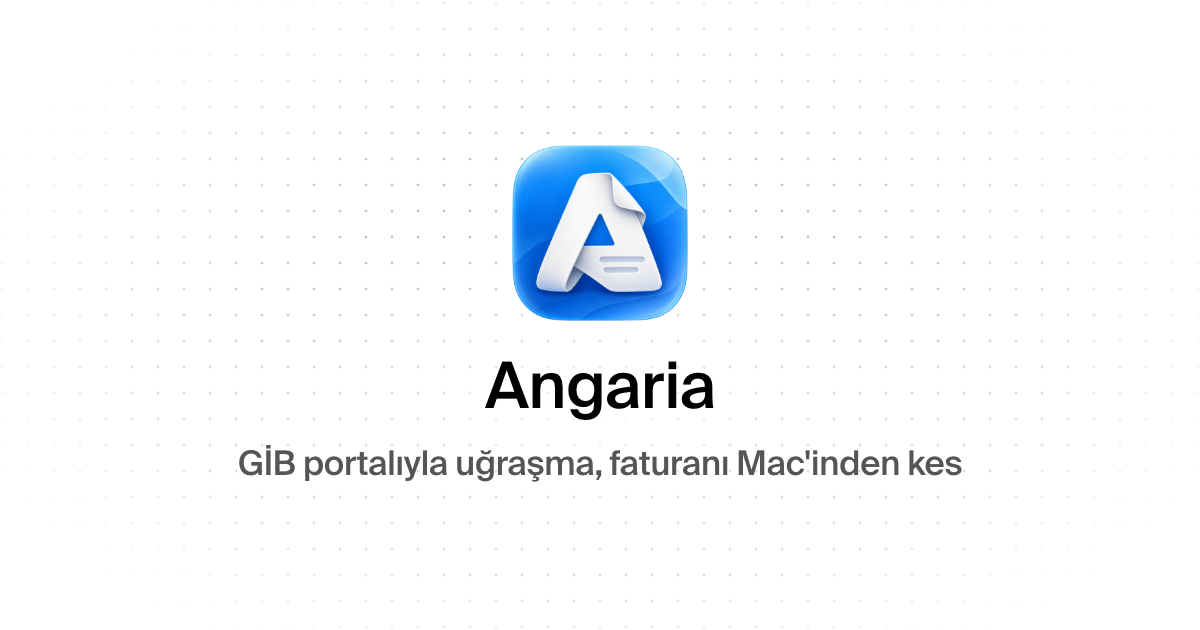
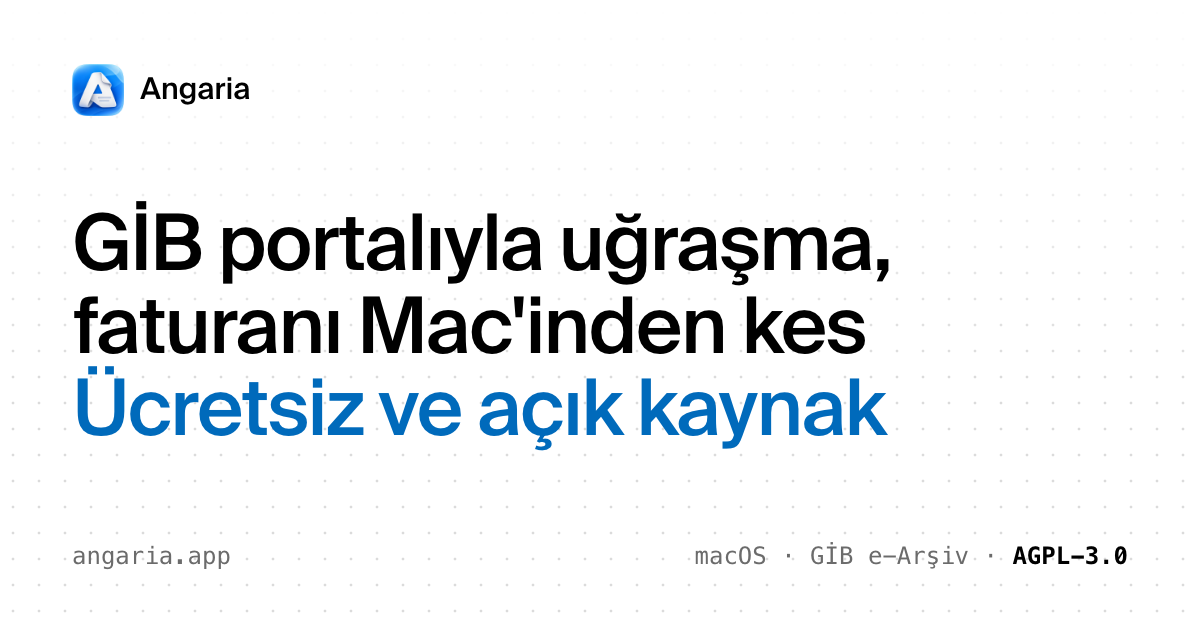
feat(web): share image in Agent Caffeine's layout
Icon and name at the top, the hero headline over two lines with
"Ücretsiz ve açık kaynak" in the brand blue, angaria.app and short facts
at the foot.

diff --git a/apps/web/scripts/render-brand.ts b/apps/web/scripts/render-brand.ts
@@ -1,9 +1,11 @@
 import { readFileSync } from 'node:fs';
 import path from 'node:path';
 /**
- * Renders the site's share image, public/og.png (1200x630), with the real
- * Suisse Intl Medium: the hero's dot grid, the app icon, the wordmark and the
- * hero's headline. The PNG is a screenshot of a headless Chromium page. The
+ * Renders the site's share image, public/og.png (1200x630), in the layout of
+ * Agent Caffeine's (caffeinagent.com): the app icon and name at the top, the
+ * hero's headline large over two lines with "Ücretsiz ve açık kaynak" in the
+ * brand blue under it, and the address and short facts at the foot. Real
+ * Suisse Intl Medium; the PNG is a screenshot of a headless Chromium page. The
  * woff2 files are gitignored (`pnpm fonts`), so run this where they have been
  * fetched. The icons themselves come from `pnpm icons`.
  *
@@ -20,25 +22,32 @@ const messages = JSON.parse(readFileSync(path.join(root, 'messages/tr.json'), 'u
   string,
   string
 >;
-const tagline = messages['hero_title'];
-if (tagline === undefined) {
+const headline = messages['hero_title'];
+if (headline === undefined) {
   throw new Error('messages/tr.json has no hero_title');
 }
+// "GİB portalıyla uğraşma, faturanı Mac'inden kes": a line for each clause.
+const [first, second] = headline.split(/,\s*/);
 
 const dataUrl = (file: string, type: string) =>
   `data:${type};base64,${readFileSync(file).toString('base64')}`;
 
-// The hero's grid (src/components/hero.tsx): the text color at 24%, 22px
-// apart, faded toward the edges and almost away behind the words.
+// The brand blue that reads as text on white (brand.css --brand-ink, 5.6:1).
 const ogPage = `<style>
 @font-face { font-family: 'Suisse Intl'; font-weight: 500; src: url('${dataUrl(fontFile, 'font/woff2')}') format('woff2'); }
 * { margin: 0; padding: 0; box-sizing: border-box; }
-body { align-items: center; background: #ffffff; color: #000000; display: flex; flex-direction: column; font-family: 'Suisse Intl'; font-weight: 500; height: 630px; justify-content: center; overflow: hidden; position: relative; width: 1200px; -webkit-font-smoothing: antialiased; }
-.dots { background-image: radial-gradient(circle, rgb(0 0 0 / 0.24) 1.2px, transparent 1.7px); background-position: 50% 50%; background-size: 26px 26px; inset: 0; mask-composite: intersect; mask-image: radial-gradient(56% 64% at 50% 50%, #000 40%, transparent 100%), radial-gradient(34% 30% at 50% 66%, rgb(0 0 0 / 0.15), #000); position: absolute; }
-.icon { display: block; height: 176px; position: relative; width: 176px; }
-.wordmark { font-size: 64px; letter-spacing: -0.02em; line-height: 1; margin-top: 36px; position: relative; }
-.tagline { font-size: 34px; letter-spacing: -0.02em; line-height: 1.2; margin-top: 24px; position: relative; text-align: center; color: #555555; }
-</style><div class="dots"></div><img class="icon" src="${dataUrl(iconFile, 'image/png')}" alt=""><div class="wordmark">Angaria</div><div class="tagline">${tagline}</div>`;
+body { background: #ffffff; color: #000000; display: flex; flex-direction: column; font-family: 'Suisse Intl'; font-weight: 500; height: 630px; justify-content: space-between; overflow: hidden; padding: 64px 72px 60px; position: relative; width: 1200px; -webkit-font-smoothing: antialiased; }
+.dots { background-image: radial-gradient(circle, rgb(0 0 0 / 0.14) 1.2px, transparent 1.7px); background-size: 26px 26px; inset: 0; mask-image: linear-gradient(to bottom, transparent, #000 60%); position: absolute; }
+.brand { align-items: center; display: flex; font-size: 30px; gap: 16px; letter-spacing: -0.01em; position: relative; }
+.brand img { height: 52px; width: 52px; }
+.headline { font-size: 78px; letter-spacing: -0.03em; line-height: 1.06; position: relative; }
+.headline .blue { color: #006abb; }
+.foot { align-items: baseline; color: #6b6b6b; display: flex; font-family: 'SF Mono', Menlo, monospace; font-size: 24px; justify-content: space-between; position: relative; }
+.foot b { color: #000000; font-weight: 600; }
+</style><div class="dots"></div>
+<div class="brand"><img src="${dataUrl(iconFile, 'image/png')}" alt="">Angaria</div>
+<div class="headline">${first},<br>${second}<br><span class="blue">Ücretsiz ve açık kaynak</span></div>
+<div class="foot"><span>angaria.app</span><span>macOS · GİB e-Arşiv · <b>AGPL-3.0</b></span></div>`;
 
 const browser = await chromium.launch();
 try {
